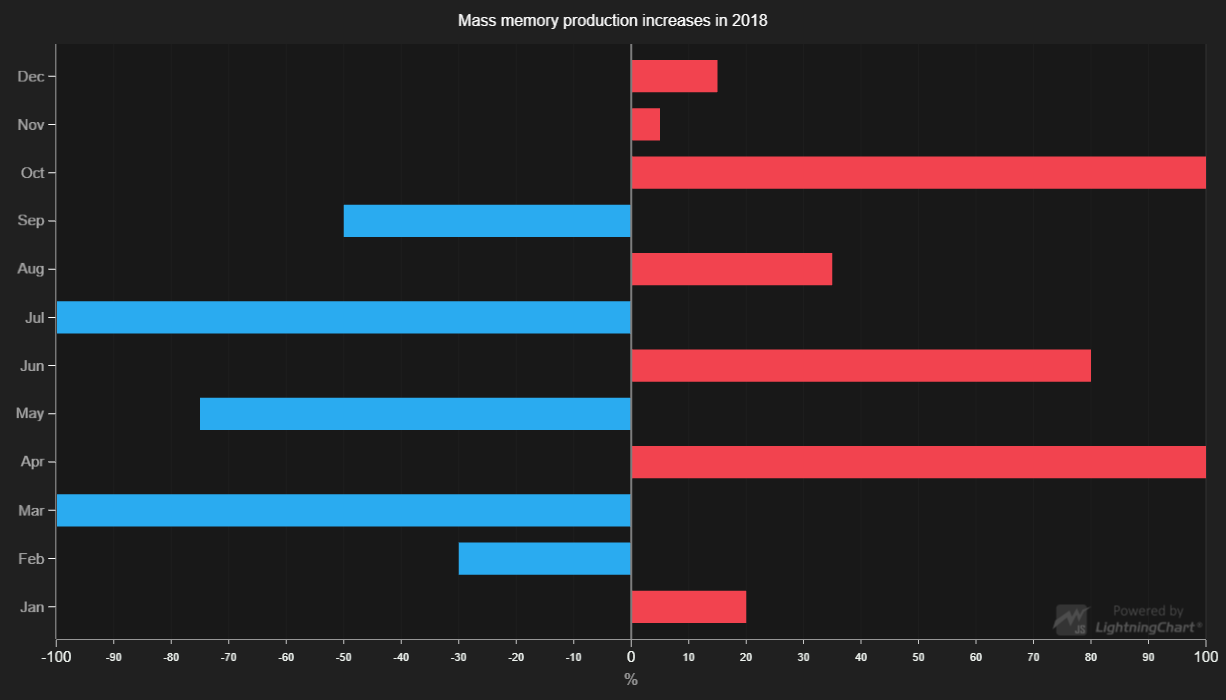
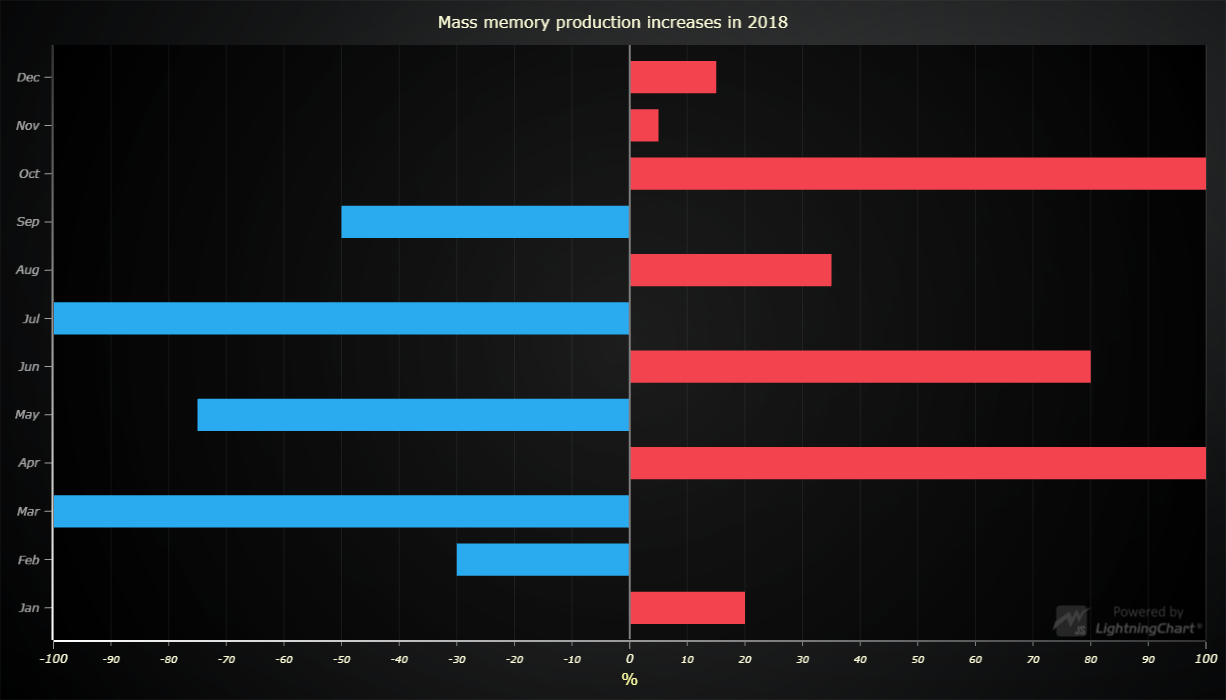
Update LCJS version

diff --git a/webpack.config.js b/webpack.config.js
@@ -69,7 +69,8 @@ module.exports = {
         }),
         new CopyWebpackPlugin({
             patterns: [
-                { from: './assets/**/*', to: './examples/assets', flatten: true, noErrorOnMissing: true }
+                { from: './assets/**/*', to: './examples/assets', flatten: true, noErrorOnMissing: true },
+                { from: './node_modules/@arction/lcjs/dist/resources', to: 'resources', noErrorOnMissing: true },
             ]
         })
     ]

diff --git a/src/index.js b/src/index.js
@@ -181,7 +181,7 @@ let barChart
 
 // Use bar chart interface to construct series.
 const chart = barChart({
-    // theme: Themes.dark
+    // theme: Themes.darkGold
 })
 // Add multiple bars at once.
 chart.addValues([

diff --git a/README.md b/README.md
@@ -77,15 +77,15 @@ Direct developer email support can be purchased through a [Support Plan][4] or b
 © Arction Ltd 2009-2020. All rights reserved.
 
 
-[XY cartesian chart]: https://www.arction.com/lightningchart-js-api-documentation/v3.0.1/classes/chartxy.html
-[Rectangle series]: https://www.arction.com/lightningchart-js-api-documentation/v3.0.1/classes/rectangleseries.html
-[Solid FillStyle]: https://www.arction.com/lightningchart-js-api-documentation/v3.0.1/classes/solidfill.html
-[Empty FillStyle]: https://www.arction.com/lightningchart-js-api-documentation/v3.0.1/globals.html#emptyfill
-[Solid LineStyle]: https://www.arction.com/lightningchart-js-api-documentation/v3.0.1/classes/solidline.html
-[Empty LineStyle]: https://www.arction.com/lightningchart-js-api-documentation/v3.0.1/globals.html#emptyline
-[RGBA color factory]: https://www.arction.com/lightningchart-js-api-documentation/v3.0.1/globals.html#colorrgba
-[cursor modes]: https://www.arction.com/lightningchart-js-api-documentation/v3.0.1/enums/autocursormodes.html
-[Axis]: https://www.arction.com/lightningchart-js-api-documentation/v3.0.1/classes/axis.html
-[Scroll strategies]: https://www.arction.com/lightningchart-js-api-documentation/v3.0.1/globals.html#axisscrollstrategies
-[UI position origins]: https://www.arction.com/lightningchart-js-api-documentation/v3.0.1/globals.html#uiorigins
+[XY cartesian chart]: https://www.arction.com/lightningchart-js-api-documentation/v3.1.0/classes/chartxy.html
+[Rectangle series]: https://www.arction.com/lightningchart-js-api-documentation/v3.1.0/classes/rectangleseries.html
+[Solid FillStyle]: https://www.arction.com/lightningchart-js-api-documentation/v3.1.0/classes/solidfill.html
+[Empty FillStyle]: https://www.arction.com/lightningchart-js-api-documentation/v3.1.0/globals.html#emptyfill
+[Solid LineStyle]: https://www.arction.com/lightningchart-js-api-documentation/v3.1.0/classes/solidline.html
+[Empty LineStyle]: https://www.arction.com/lightningchart-js-api-documentation/v3.1.0/globals.html#emptyline
+[RGBA color factory]: https://www.arction.com/lightningchart-js-api-documentation/v3.1.0/globals.html#colorrgba
+[cursor modes]: https://www.arction.com/lightningchart-js-api-documentation/v3.1.0/enums/autocursormodes.html
+[Axis]: https://www.arction.com/lightningchart-js-api-documentation/v3.1.0/classes/axis.html
+[Scroll strategies]: https://www.arction.com/lightningchart-js-api-documentation/v3.1.0/globals.html#axisscrollstrategies
+[UI position origins]: https://www.arction.com/lightningchart-js-api-documentation/v3.1.0/globals.html#uiorigins
 
